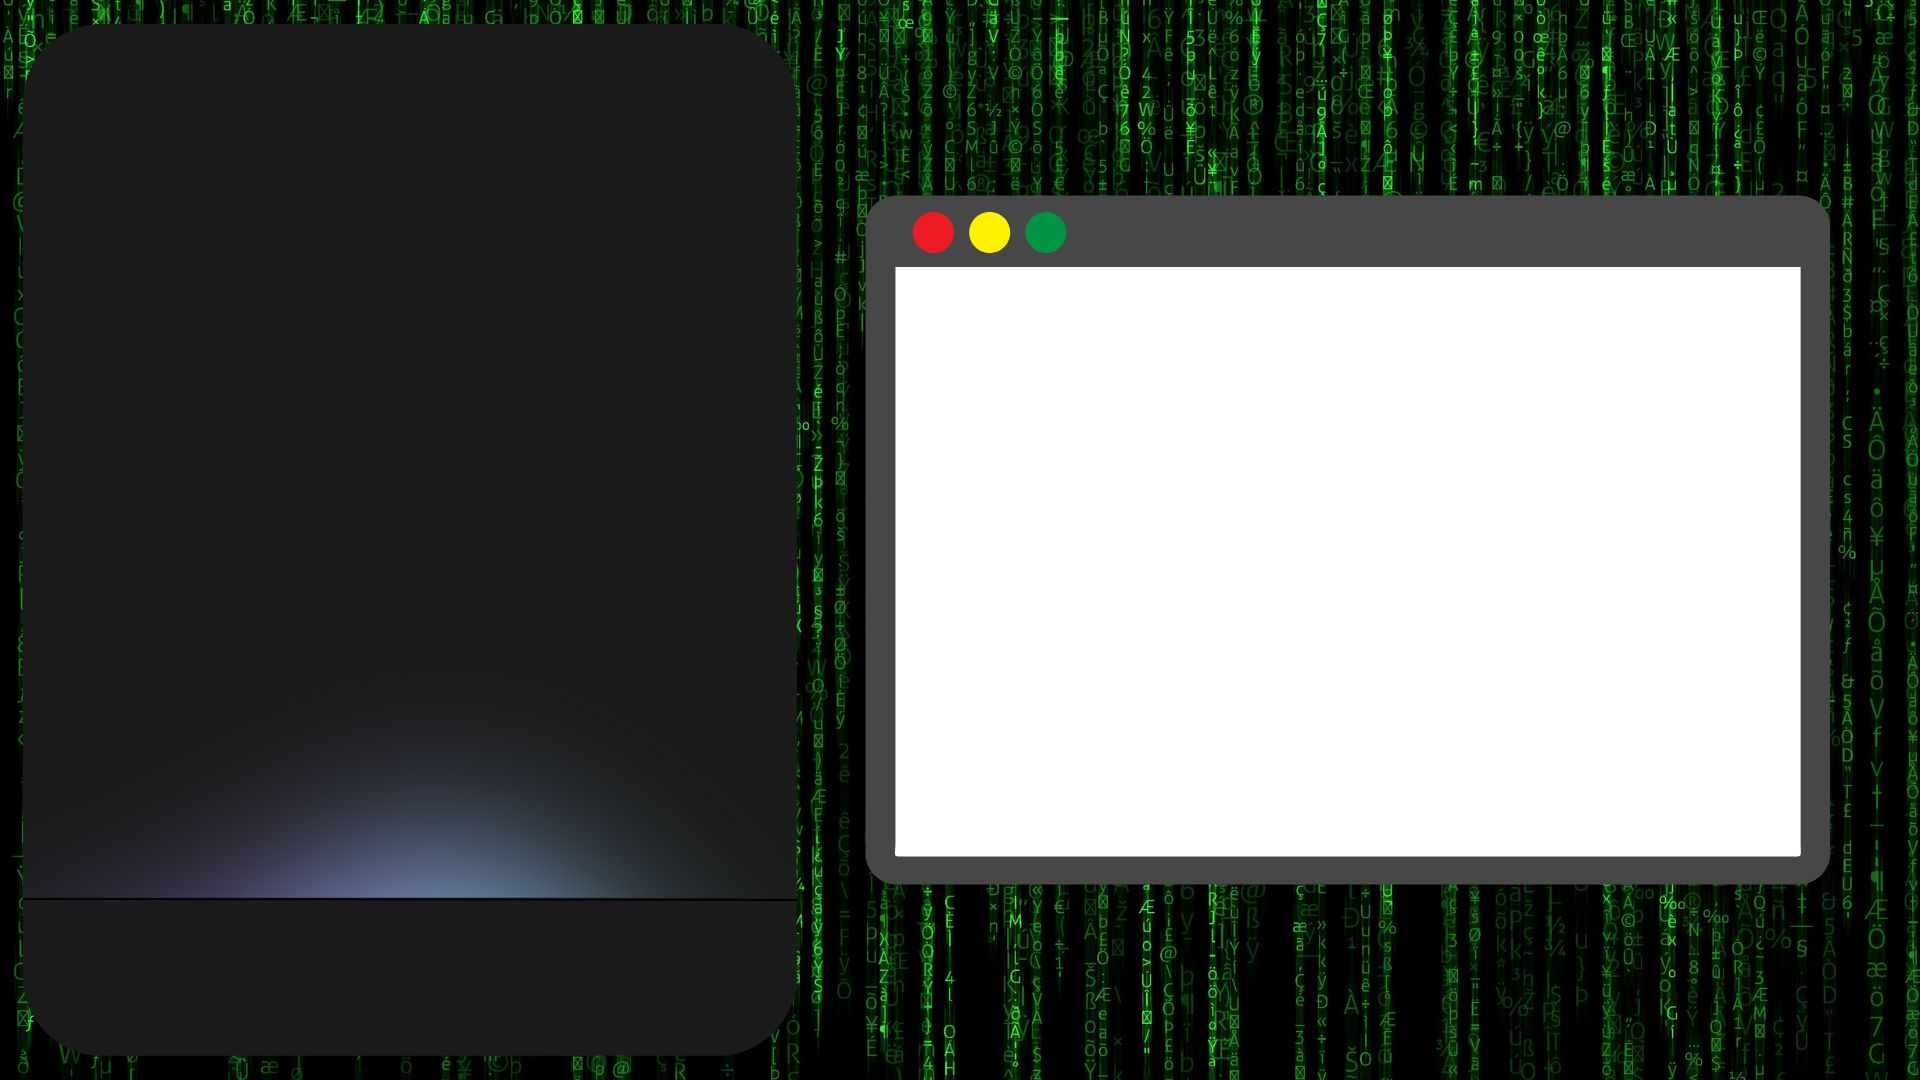
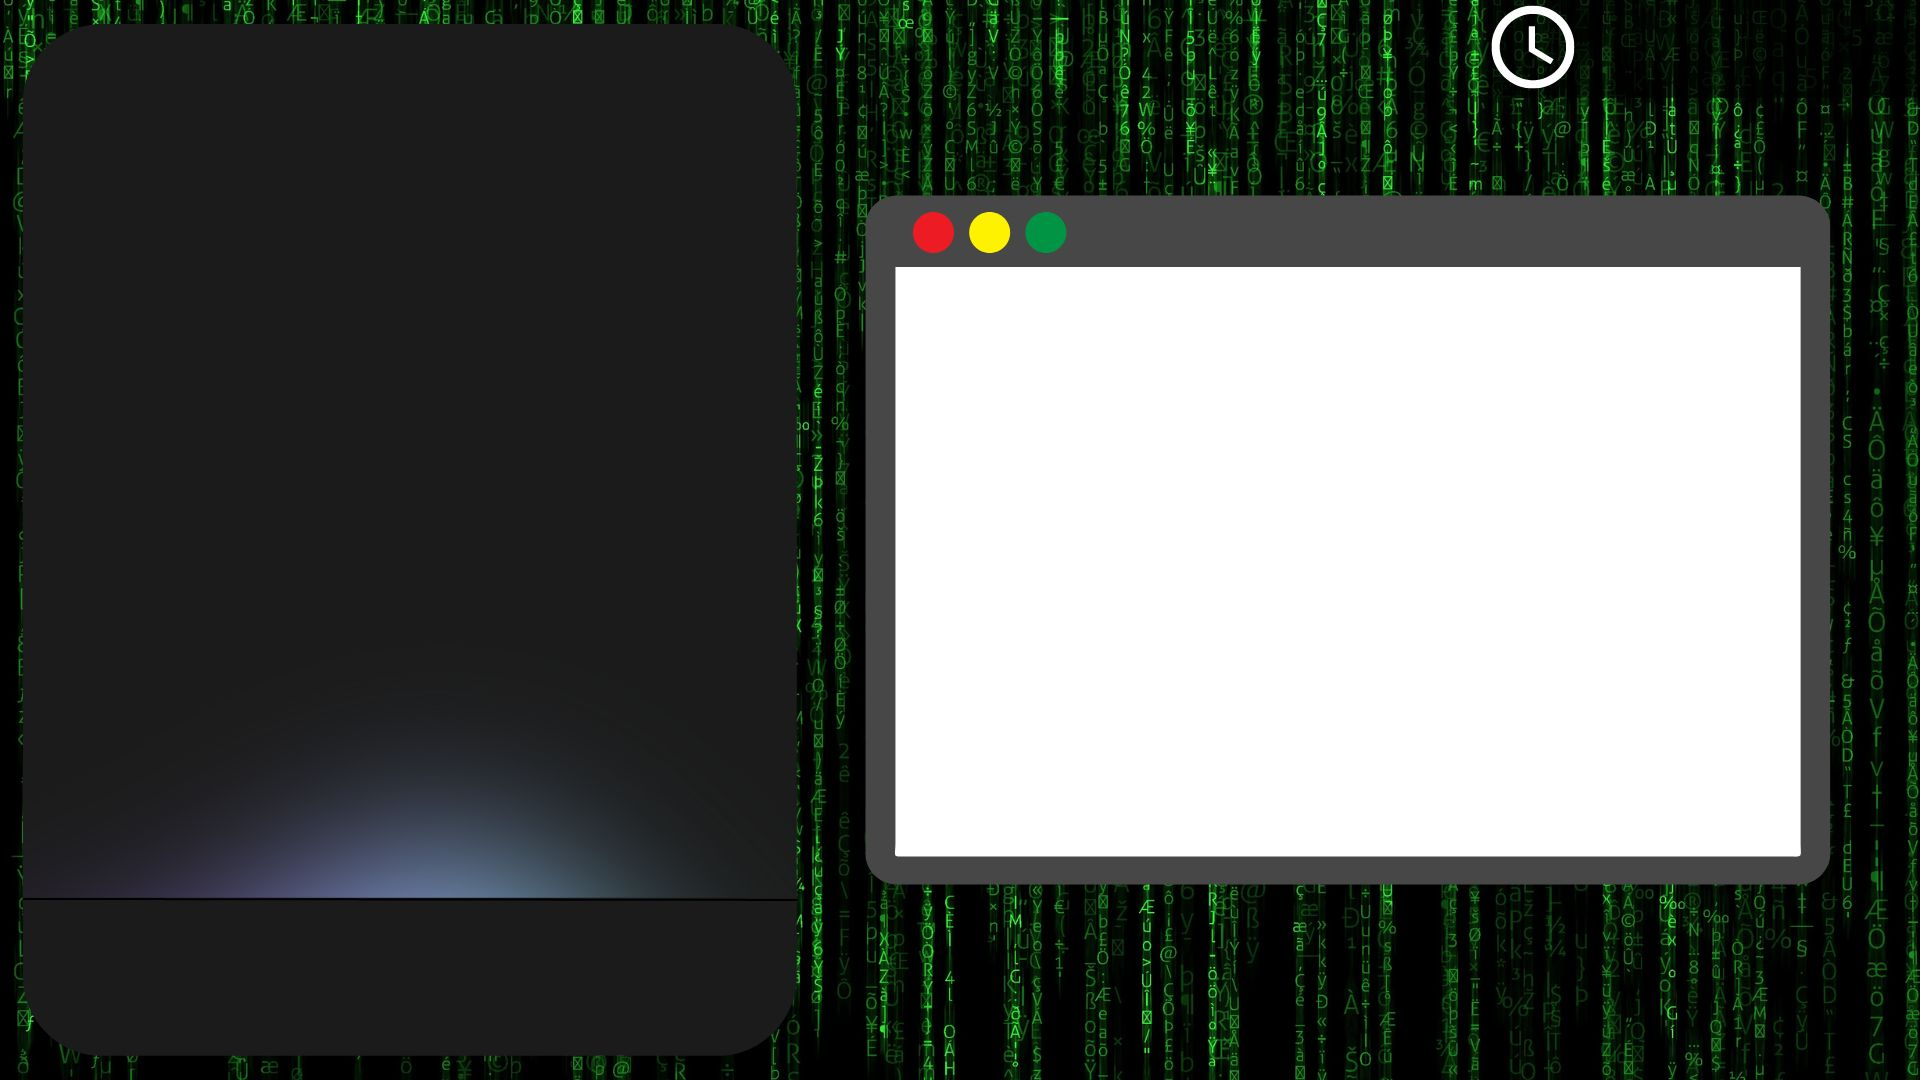
Ajout du chronomètre à la page jouer

Changed region(s): [[0.75, 0.0, 1.0, 0.0917]]

diff --git a/src/main/resources/fr/univ_amu/iut/style.css b/src/main/resources/fr/univ_amu/iut/style.css
@@ -79,6 +79,11 @@
     -fx-font-size: 40;
 }
 
+#chrono {
+    -fx-text-fill: white;
+    -fx-font-size: 50;
+}
+
 .textLogin {
     -fx-text-fill: white;
 }

diff --git a/target/classes/fr/univ_amu/iut/style.css b/target/classes/fr/univ_amu/iut/style.css
@@ -79,6 +79,11 @@
     -fx-font-size: 40;
 }
 
+#chrono {
+    -fx-text-fill: white;
+    -fx-font-size: 50;
+}
+
 .textLogin {
     -fx-text-fill: white;
 }

diff --git a/src/main/java/fr/univ_amu/iut/Chrono.java b/src/main/java/fr/univ_amu/iut/Chrono.java
@@ -1,28 +1,32 @@
 package fr.univ_amu.iut;
 
+
 public class Chrono {
-    private long startTime=0;
-    private long actualTime = 0;
-    private long duree=0;
-
-    private String timeString = "";
-
+    private long startTime;
+    private long actualTime;
+    private long duration;
     private boolean run = true;
 
-    public void launch() {
-        startTime=System.currentTimeMillis();
-        duree=0;
+    public Chrono(long startTime) {
+        this.startTime = startTime;
+    }
 
-        Thread time = new Thread(new Runnable() {
-            @Override
-            public void run() {
-                while (run) {
-                    try {
-                        timeString = getDurationTxt(getElapsedTime());
-                        Thread.sleep(1000);
-                    } catch (InterruptedException e) {
-                        throw new RuntimeException(e);
-                    }
+    public Chrono() {
+        this.startTime = System.currentTimeMillis();
+    }
+
+    public long getStartTime() {
+        return startTime;
+    }
+
+    public void launch() {
+        Thread time = new Thread(() -> {
+            while (run) {
+                try {
+                    duration = getElapsedTime();
+                    Thread.sleep(1000);
+                } catch (InterruptedException e) {
+                    throw new RuntimeException(e);
                 }
             }
         });
@@ -31,16 +35,20 @@ public class Chrono {
 
     public long getElapsedTime() {
         actualTime=System.currentTimeMillis();
-        duree = actualTime - startTime;
-        return duree;
+        duration = actualTime - startTime;
+        return duration;
     }
 
     public long getDurationInSeconds() {
-        return duree/1000;
+        return duration/1000;
     }
 
     public void stop() {
         run = false;
+    }
+
+    public boolean isRun() {
+        return run;
     }
 
     public String getDurationTxt(long duree) {
@@ -48,7 +56,7 @@ public class Chrono {
     }
 
     public String getTimeString() {
-        return timeString;
+        return getDurationTxt(getDurationInSeconds());
     }
 
     public static String timeFormat(long timeS) {
@@ -82,7 +90,6 @@ public class Chrono {
         if(h<=0 && m<=0 && s<=0) {
             time="0:00:00";
         }
-
         return time;
     }
 }

diff --git a/src/main/java/fr/univ_amu/iut/components/ChronoLabel.java b/src/main/java/fr/univ_amu/iut/components/ChronoLabel.java
@@ -1,0 +1,40 @@
+package fr.univ_amu.iut.components;
+
+import fr.univ_amu.iut.Chrono;
+
+import javafx.animation.KeyFrame;
+import javafx.animation.Timeline;
+import javafx.beans.property.SimpleStringProperty;
+import javafx.scene.control.Label;
+import javafx.util.Duration;
+
+public class ChronoLabel extends Label {
+    private Chrono c;
+
+    public ChronoLabel() {
+        super();
+        c = new Chrono();
+        c.launch();
+
+        super.setId("chrono");
+
+        //Launch chrono
+        Timeline timeline = new Timeline(
+                new KeyFrame(Duration.seconds(1.0), e -> {
+                    setText(c.getTimeString());
+                })
+        );
+        timeline.setCycleCount(Timeline.INDEFINITE);
+        timeline.play();
+    }
+
+    public ChronoLabel(long startTime) {
+        super();
+        c = new Chrono(startTime);
+        super.textProperty().bind(new SimpleStringProperty(c.getTimeString()));
+    }
+
+    public Chrono getC() {
+        return c;
+    }
+}

diff --git a/src/main/java/fr/univ_amu/iut/Test.java b/src/main/java/fr/univ_amu/iut/Test.java
@@ -25,9 +25,15 @@ public class Test {
 
         Chrono c =new Chrono();
         c.launch();
-        Thread.sleep(30000);
+        Thread.sleep(3000);
         System.out.println(c.getTimeString());
         c.stop();
+
+        Chrono c2 = new Chrono(c.getStartTime());
+        c2.launch();
+        Thread.sleep(3000);
+        System.out.println(c2.getTimeString());
+        c2.stop();
     }
 
 }

diff --git a/src/main/java/fr/univ_amu/iut/GameController.java b/src/main/java/fr/univ_amu/iut/GameController.java
@@ -18,6 +18,7 @@ public class GameController {
 
     @FXML
     public void switchTo(ActionEvent event) throws IOException {
+        //TODO : Passer le ChronoLabel actuel en parametre à chaque changement
         Node node = (Node) event.getSource() ;
         data = (String) node.getUserData();
         root = FXMLLoader.load(getClass().getResource(data));

diff --git a/src/main/java/fr/univ_amu/iut/components/TerminalPane.java b/src/main/java/fr/univ_amu/iut/components/TerminalPane.java
@@ -1,6 +1,6 @@
-package fr.univ_amu.iut;
+package fr.univ_amu.iut.components;
 
-import fr.univ_amu.iut.Connection.ClientTerminal;
+import fr.univ_amu.iut.connection.ClientTerminal;
 import javafx.event.EventHandler;
 import javafx.scene.control.TextArea;
 import javafx.scene.control.TextField;

diff --git a/src/main/java/module-info.java b/src/main/java/module-info.java
@@ -6,4 +6,6 @@ module com.example.sae_s3 {
     requires jakarta.persistence;
     opens fr.univ_amu.iut to javafx.fxml;
     exports fr.univ_amu.iut;
+    exports fr.univ_amu.iut.components;
+    opens fr.univ_amu.iut.components to javafx.fxml;
 }

diff --git a/src/main/java/fr/univ_amu/iut/connection/ServerTerminal.java b/src/main/java/fr/univ_amu/iut/connection/ServerTerminal.java
@@ -1,4 +1,4 @@
-package fr.univ_amu.iut.Connection;
+package fr.univ_amu.iut.connection;
 
 import java.io.*;
 import java.net.ServerSocket;

diff --git a/src/main/java/fr/univ_amu/iut/connection/ClientTerminal.java b/src/main/java/fr/univ_amu/iut/connection/ClientTerminal.java
@@ -1,4 +1,4 @@
-package fr.univ_amu.iut.Connection;
+package fr.univ_amu.iut.connection;
 
 import java.io.*;
 import java.net.Socket;
